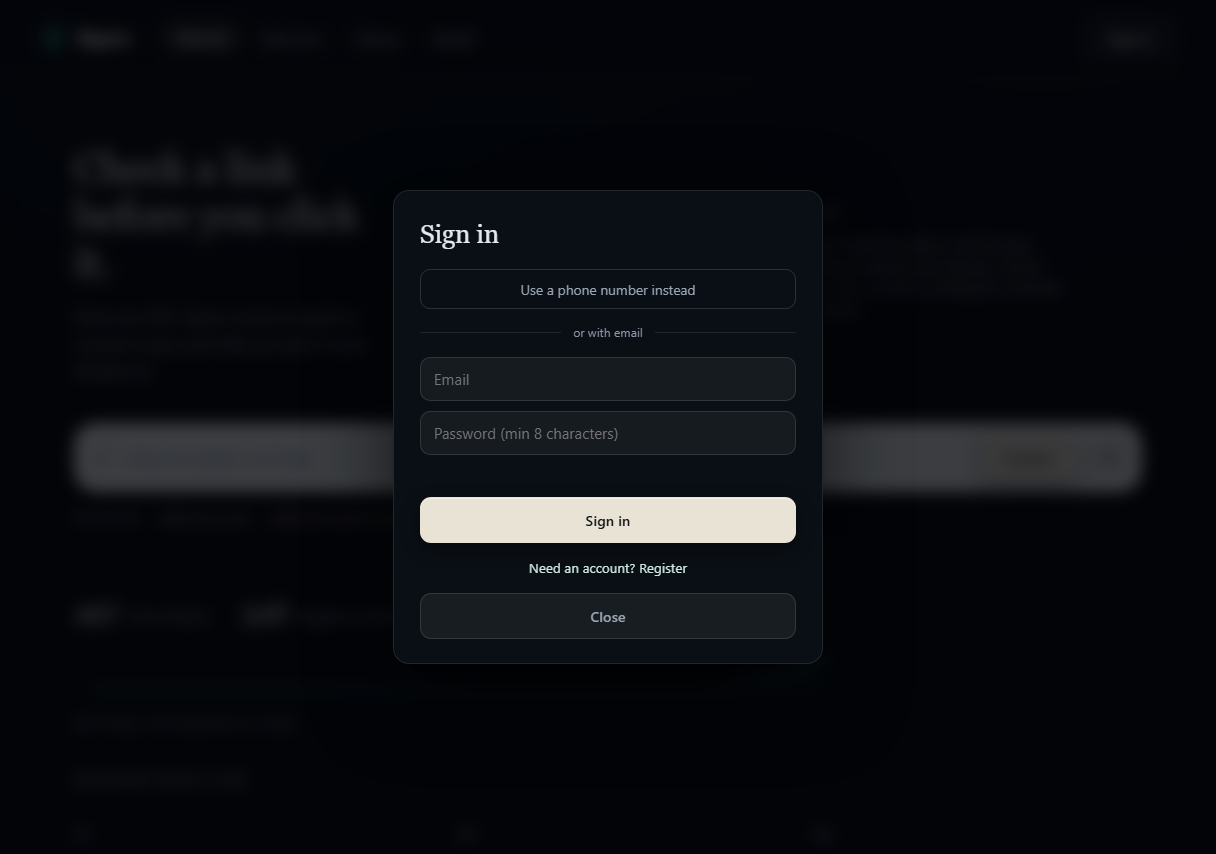
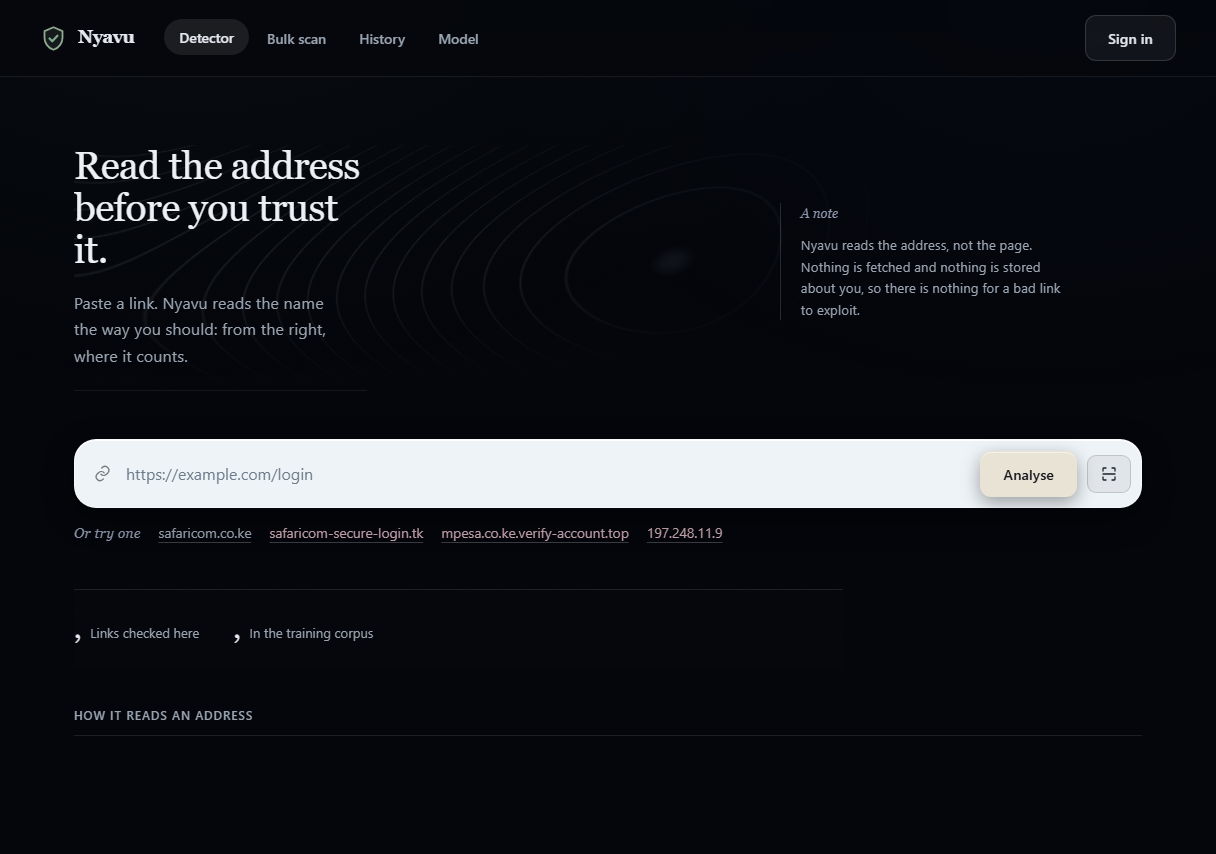
Fix the run-on sentences my dash sweep left, and the helper script's silent failure
Three sentences had an em dash turned into a comma, which turned a colon into a comma
splice: the cost of the reputation rule, the bank name on a cheap ending, and how to reach
an organisation. Colons now.

The Render helper wrote the environment with a bulk PUT, which Render rejects with an empty
400. It writes one key at a time now, which is the route that works, and says so per key.

diff --git a/app/static/pages/learn/how-phishing-works.html b/app/static/pages/learn/how-phishing-works.html
@@ -58,7 +58,7 @@
     <h2>4. A cheap ending</h2>
     <p>Registration in some top-level domains costs almost nothing and requires no identity checks.
       When a bank's name appears on a <code>.tk</code>, <code>.top</code> or <code>.xyz</code>
-      address, that combination is worth treating as suspicious on its own, the organisation almost
+      address, that combination is worth treating as suspicious on its own: the organisation almost
       certainly owns a country-code or <code>.com</code> domain instead.</p>
 
     <h2>5. No name at all, just a number</h2>
@@ -81,7 +81,7 @@
         things like <code>.co.ke</code>. That is the part someone had to buy.</li>
       <li>Compare that domain to the one you expect, character by character, not by shape.</li>
       <li>If the message is urgent, slow down deliberately. Urgency is a technique, not a fact.</li>
-      <li>Reach the organisation the way you normally would, their app, your bookmark, the number on
+      <li>Reach the organisation the way you normally would: their app, your bookmark, the number on
         your card, rather than through the link you were sent.</li>
     </ol>
 

diff --git a/app/static/pages/about.html b/app/static/pages/about.html
@@ -54,7 +54,7 @@
       domain-disjoint hold-out set, and that is the number reported everywhere in this project.</p>
     <p>A 19.8% false-positive rate is unusable in front of a person, so the deployed system adds a
       reputation rule: a domain inside the Tranco top 100,000 is never flagged on name evidence
-      alone. The cost is stated rather than hidden, phishing hosted on a popular domain is missed.</p>
+      alone. The cost is stated rather than hidden: phishing hosted on a popular domain is missed.</p>
 
     <h2>What it cannot do</h2>
     <ul>

diff --git a/docs/BACKLOG.md b/docs/BACKLOG.md
@@ -10,16 +10,26 @@ The only item nobody has done, and the only one I cannot do. The seven second ex
 the smooth scroll after a scan, the phone layout and the verdict card at true size. Every
 check so far has been headless Edge with scripted input.
 
-### 2. Sign-in keys
-Google is free: create an OAuth client, set GOOGLE_CLIENT_ID and GOOGLE_CLIENT_SECRET.
-SMS is not free: a Kenyan message is roughly one shilling on Africa's Talking and several
-times that on Twilio. Until one is configured the phone method reports itself unavailable,
-so the interface offers email only. See docs/AUTH.md.
+### 2. Phone sign-in only
+Google is live: client created, both values in Render, the start endpoint redirects with the
+right callback, and the panel offers it. Phone remains unavailable because no SMS provider
+is configured, which costs roughly a shilling a message in Kenya. Until one is set the
+method reports itself unavailable rather than offering a dead end. See docs/AUTH.md.
 
 ### 3. Measurement
 There is no analytics. The honest next step is aggregate counts only, no URLs: how many
 scans a day, how deep people get, where they stop. That needs a privacy stance that
 matches the product's promise, which is why it has not been bolted on.
+
+## Defects found in places nobody had looked
+
+- watching for these is the habit that has paid off all day: the harness lies before the
+  product does, and features nobody exercises are where the lies hide
+- bulk scan works: CSV with a header, plain lines, an unparseable row that degrades to
+  error rather than failing the run, and an empty file that returns a readable 422
+- the Render helper script failed silently on its first run: a bulk PUT of the environment
+  is rejected with an empty 400, so the values were stored locally and never reached the
+  service. It writes one key at a time now, which is the route that works
 
 ## Done since the last rewrite
 
